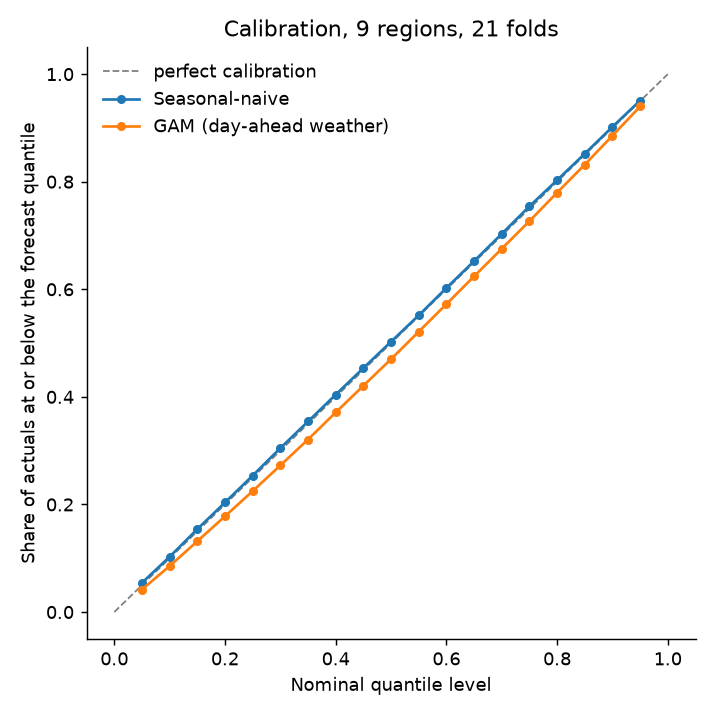
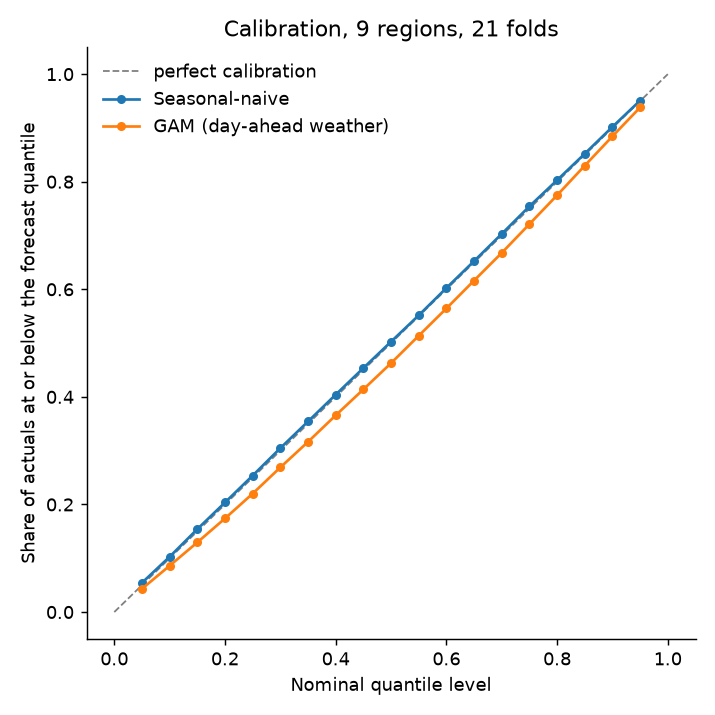
feat: add heat-wave terms to the GAM and write the README
Two terms aimed at the GAM's weakest regime, on by default (heat=True):
a temperature x hour-of-day tensor surface, since cooling load lands in
the afternoon and evening, and a trailing 24h mean temperature for heat
build-up. Across 9 regions x 21 folds with day-ahead weather: CRPS
1,256.7 -> 1,129.5 (now 56.1% better than seasonal-naive), MAPE 4.66%
-> 4.09%, heat-wave MAPE 5.47% -> 3.99%, coverage 79.8%. Better in
every region; DM vs naive pooled 16.3. Holiday coverage fell to 63%.

README.md: headline, per-region results with DM statistics, regime
table, the four figures, methodology (pipeline, leak-free lags, walk-
forward backtest, normalized conformal intervals), the measured weather
leakage, limitations, and reproduction steps. Figures regenerated.

diff --git a/models/gam.py b/models/gam.py
@@ -27,13 +27,15 @@ held-out model was a year stale; together they cover 80.0% with the best CRPS of
 
 import numpy as np
 import pandas as pd
-from pygam import LinearGAM, f, l, s
+from pygam import LinearGAM, f, l, s, te
 
 from models import Fold, usable
 from models.intervals import quantiles_from, rolling_sigma, z_quantiles
 from models.scoring import TAUS
 
 FEATURES = ["temp_c", "hour_of_week", "day_of_year", "is_major_holiday", "lag_168h", "lag_48h"]
+# heat=True adds a temperature x hour-of-day surface and a trailing 24h mean temperature.
+HEAT_FEATURES = [*FEATURES, "hour_local", "temp_mean_24h"]
 CALIBRATION_DAYS = 365  # a full year, so the z shape sees every season
 
 
@@ -43,12 +45,14 @@ def design(df: pd.DataFrame) -> pd.DataFrame:
     out["hour_of_week"] = out.dow * 24 + out.hour_local
     out["day_of_year"] = pd.to_datetime(out.local_date).dt.dayofyear
     out["is_major_holiday"] = out.is_major_holiday.astype(int)
+    out = out.sort_values("period_utc")
+    out["temp_mean_24h"] = out.temp_c.rolling(24, min_periods=1).mean()  # heat build-up
     return out
 
 
-def specification() -> LinearGAM:
-    """The model spec, unfitted. Term order matches FEATURES."""
-    return LinearGAM(
+def specification(heat: bool = False) -> LinearGAM:
+    """The model spec, unfitted. Term order matches FEATURES (or HEAT_FEATURES)."""
+    terms = (
         s(0, n_splines=15)  # temp_c
         + s(1, n_splines=60, basis="cp", edge_knots=[0, 168])  # hour_of_week, wraps 167 -> 0
         + s(2, n_splines=12, basis="cp", edge_knots=[1, 367])  # day_of_year, wraps Dec -> Jan
@@ -56,17 +60,23 @@ def specification() -> LinearGAM:
         + l(4)  # lag_168h
         + l(5)  # lag_48h
     )
+    if heat:
+        # Cooling load lands in the afternoon and evening: let temperature's effect vary by
+        # hour of day. And a hot day after hot days draws more than its own temperature says.
+        terms = terms + te(0, 6, n_splines=[8, 8]) + s(7, n_splines=10)
+    return LinearGAM(terms)
 
 
 def fit(
-    df: pd.DataFrame, fold: Fold, calibration_days: int = CALIBRATION_DAYS
+    df: pd.DataFrame, fold: Fold, calibration_days: int = CALIBRATION_DAYS, heat: bool = False
 ) -> tuple[LinearGAM, pd.DataFrame]:
     """Fit on everything up to `calibration_days` before train_end. Returns the model and the
     usable rows (designed and filtered), so callers can plot terms or build intervals."""
-    rows = usable(design(df), FEATURES)  # design first: three of FEATURES are derived
+    features = HEAT_FEATURES if heat else FEATURES
+    rows = usable(design(df), features)  # design first: several features are derived
     calib_start = fold.train_end - pd.Timedelta(days=calibration_days)
     window = rows[(rows.period_utc >= fold.train_start) & (rows.period_utc < calib_start)]
-    gam = specification().fit(window[FEATURES].to_numpy(), window.demand_mw.to_numpy())
+    gam = specification(heat).fit(window[features].to_numpy(), window.demand_mw.to_numpy())
     return gam, rows
 
 
@@ -78,6 +88,7 @@ def fit_predict(
     calibration_days: int = CALIBRATION_DAYS,
     z_by_hour: bool = True,
     refit: bool = True,
+    heat: bool = True,
 ) -> pd.DataFrame:
     """weather names the temperature column used at PREDICTION time. Training always uses
     temp_c (actual weather), as production would.
@@ -95,8 +106,12 @@ def fit_predict(
         z_by_hour         learn z per local hour (24 tables) or pooled across hours
         refit             after calibrating, refit on the full training window and use that
                           fresher model for the test-month point forecast and residuals
+        heat              temperature x hour-of-day surface plus trailing 24h mean temperature.
+                          On by default: CRPS 1,256.7 -> 1,129.5 and heat-wave MAPE 5.47% ->
+                          3.99% across 9 regions x 21 folds (CLAUDE.md section 7)
     """
-    gam, rows = fit(df, fold, calibration_days)
+    features = HEAT_FEATURES if heat else FEATURES
+    gam, rows = fit(df, fold, calibration_days, heat)
     calib_start = fold.train_end - pd.Timedelta(days=calibration_days)
 
     # Predict calibration and test as one continuous series so sigma -- which needs the
@@ -107,7 +122,8 @@ def fit_predict(
     if weather != "temp_c":
         series["temp_c"] = series[weather]
         series = series.dropna(subset=["temp_c"])
-    series["yhat"] = gam.predict(series[FEATURES].to_numpy())
+        series["temp_mean_24h"] = series.temp_c.rolling(24, min_periods=1).mean()
+    series["yhat"] = gam.predict(series[features].to_numpy())
     series["error"] = series.demand_mw - series.yhat
     series["sigma"] = rolling_sigma(series.period_utc, series.error.abs())
     series = series[series.sigma > 0]
@@ -122,8 +138,8 @@ def fit_predict(
         # Point forecast from a model trained right up to train_end. Its residuals feed sigma
         # for the test month; the z shape still comes from the held-out calibration above.
         full = rows[(rows.period_utc >= fold.train_start) & (rows.period_utc < fold.train_end)]
-        gam = specification().fit(full[FEATURES].to_numpy(), full.demand_mw.to_numpy())
-        series["yhat"] = gam.predict(series[FEATURES].to_numpy())
+        gam = specification(heat).fit(full[features].to_numpy(), full.demand_mw.to_numpy())
+        series["yhat"] = gam.predict(series[features].to_numpy())
         series["error"] = series.demand_mw - series.yhat
         series["sigma"] = rolling_sigma(series.period_utc, series.error.abs())
         series = series[series.sigma > 0]

diff --git a/scripts/backtest_local.py b/scripts/backtest_local.py
@@ -40,6 +40,7 @@ MODELS = {
     "gam": gam.fit_predict,  # predicts with actual weather: optimistic
     "gam_hf": partial(gam.fit_predict, weather="temp_c_hf"),  # historical_forecast: ~actual
     "gam_fcst": partial(gam.fit_predict, weather="temp_c_pd1"),  # forecast a day earlier: honest
+    "gam_noheat": partial(gam.fit_predict, weather="temp_c_pd1", heat=False),  # ablation
 }
 FORECAST_COLUMNS = {"historical_forecast": "temp_c_hf", "previous_day1": "temp_c_pd1"}
 

diff --git a/README.md b/README.md
@@ -1,0 +1,205 @@
+# Probabilistic Day-Ahead Electricity Demand Forecasting
+
+Hourly, day-ahead demand forecasts with **calibrated 80% prediction intervals** for 10 US
+balancing authorities, built on a Databricks (PySpark + Delta Lake) medallion pipeline and
+evaluated with a leak-free 21-month walk-forward backtest.
+
+**Headline:** a generalized additive model (GAM) using the weather forecast available the
+day before cuts probabilistic error (CRPS) by **56% versus seasonal-naive**, more than halves MAPE
+(**4.09% vs 8.55%**), keeps empirical 80% interval coverage at **79.8%**, and the
+improvement is statistically significant in every region (Diebold-Mariano, Newey-West).
+
+![Learned temperature response](docs/figures/temperature_response.png)
+
+---
+
+## Results
+
+21 monthly walk-forward folds (test months Jan 2025 – Sep 2026), 153,112 scored hours.
+Forecasts are made with **day-ahead forecast weather**, not observed weather (see
+[Weather leakage](#weather-leakage-measured)).
+
+| Region | CRPS naive (MW) | CRPS GAM (MW) | CRPS improvement | MAPE naive | MAPE GAM | 80% coverage naive | 80% coverage GAM | DM stat |
+| --- | ---: | ---: | ---: | ---: | ---: | ---: | ---: | ---: |
+| BPAT | 327 | 139 | 57% | 5.80% | 2.56% | 79.4% | 79.7% | 12.5 |
+| CISO | 1,367 | 777 | 43% | 6.51% | 3.79% | 80.4% | 79.1% | 9.0 |
+| ERCO | 3,543 | 1,414 | 60% | 8.19% | 3.21% | 80.7% | 79.7% | 11.0 |
+| FPL | 1,251 | 633 | 49% | 9.96% | 5.14% | 79.6% | 80.5% | 12.0 |
+| ISNE | 1,209 | 577 | 52% | 11.77% | 6.06% | 80.2% | 80.1% | 10.5 |
+| MISO | 4,669 | 1,737 | 63% | 7.56% | 2.88% | 79.5% | 79.6% | 12.7 |
+| NYIS | 1,314 | 577 | 56% | 9.44% | 4.47% | 81.1% | 79.8% | 10.2 |
+| PJM | 7,020 | 3,008 | 57% | 8.90% | 3.87% | 80.1% | 79.6% | 11.5 |
+| SWPP | 2,433 | 1,302 | 46% | 8.85% | 4.81% | 79.2% | 80.4% | 9.8 |
+| **All 9 above** | **2,570** | **1,130** | **56%** | **8.55%** | **4.09%** | **79.9%** | **79.8%** | **16.3** |
+| LDWP ⚠ | 293 | 192 | 34% | 30.59% | 23.13% | 81.3% | 79.3% | 6.7 |
+
+- **CRPS** (continuous ranked probability score) is the primary metric: it scores the whole
+  predictive distribution, rewarding accuracy and sharpness together, and is a proper
+  scoring rule. It is in MW, so compare models within a region, not regions with each other.
+- **DM stat:** Diebold-Mariano test on hourly CRPS differences with a one-week Newey-West
+  variance (hourly errors are strongly autocorrelated). |DM| > 1.96 is significant at 5%;
+  every region is far beyond it (pooled p ≈ 10⁻⁵⁹).
+- **LDWP** is reported separately: its published demand has long stretches pinned near
+  175–250 MW against a ~2,500 MW median. That is a data-quality problem, not a hard region.
+
+### Error by regime
+
+![Error by regime](docs/figures/error_by_regime.png)
+
+| Regime (9 regions) | Hours | MAPE naive | MAPE GAM | CRPS improvement | 80% coverage GAM |
+| --- | ---: | ---: | ---: | ---: | ---: |
+| Heat wave day (region's hottest 5%) | 8,424 | 10.9% | 4.0% | 65% | 74.8% |
+| Cold snap day (region's coldest 5%) | 9,354 | 10.5% | 5.0% | 54% | 72.3% |
+| Major holiday | 2,232 | 10.2% | 5.4% | 53% | 63.3% |
+| Weekend | 34,575 | 8.3% | 4.2% | 54% | 81.3% |
+| Weekday | 83,215 | 8.2% | 3.9% | 56% | 81.1% |
+
+The GAM more than halves error in every regime and gains most in heat waves (65%), exactly
+where repeating last week fails. Cold snaps and holidays remain ~25–35% harder than ordinary
+days, and **intervals are too narrow on extreme days and holidays** (63–75% coverage),
+offset by slight over-coverage on normal days.
+
+### A heat-wave week
+
+![CISO heat-wave week](docs/figures/forecast_week.png)
+
+Seasonal-naive repeats a mild week straight through California's September 2026 heat wave.
+The GAM sees the heat coming and climbs with it, but still **under-forecasts the peaks**,
+and actual demand breaks above the 80% interval on the hottest days.
+
+### Calibration
+
+<img src="docs/figures/calibration.png" width="420" alt="Calibration curve">
+
+Share of actuals at or below each of the 19 forecast quantiles. Seasonal-naive sits on the
+diagonal; the GAM runs a few points below it at every level, a slight systematic
+under-forecast (median bias ≈ +150 MW) that the heat-wave week also shows.
+
+---
+
+## Methodology
+
+**Data.** Hourly demand from the EIA API v2 and hourly weather from Open-Meteo for 10
+balancing authorities (CISO, ERCO, PJM, MISO, NYIS, ISNE, BPAT, SWPP, FPL, LDWP), January 2023
+to present, ~331k region-hours. Everything is stored in UTC; local time is derived only for
+calendar features.
+
+**Pipeline (Databricks Free Edition, serverless Spark Connect, Delta Lake).**
+
+```
+EIA + Open-Meteo ──► bronze (raw, MERGE upserts keyed on region + hour: idempotent, revisions picked up)
+                 ──► silver (complete UTC hourly grid, gaps flagged not filled, range checks)
+                 ──► gold.features (local calendar, holidays, leak-free lags, Fourier terms,
+                                    heating/cooling degree-hours) ──► backtest tables
+```
+
+Real data issues the pipeline surfaced and handles explicitly: EIA hours published with no
+value and hours missing entirely (both flagged `has_gap`, never forward-filled); whole local
+days missing for some utilities, several on DST transitions (e.g. PJM on 2024-03-10, blank at
+the source); CISO and LDWP sharing a weather coordinate.
+
+**Models.**
+
+- *Seasonal-naive* (benchmark only): demand at the same hour one week earlier.
+- *GAM* (pygam, one per region and fold): smooth terms for temperature, a cyclic 168-hour
+  hour-of-week curve (weekday and weekend daily shapes differ), a cyclic seasonal curve, a
+  major-holiday effect, 48h/168h demand lags, a **temperature × hour-of-day** surface
+  (cooling load lands in the afternoon and evening), and a **trailing 24h mean temperature**
+  (heat build-up). The last two cut CRPS 10% overall and heat-wave MAPE from 5.5% to 4.0%.
+
+**Leak-free features.** The forecast is issued at 13:00 UTC (06:00 Pacific) for the next UTC
+day, so target hours are 11–34h ahead. A 24h lag would point at hours that haven't happened
+yet for most targets, so lags are 48h and 168h and every rolling window ends ≥48h back.
+
+**Walk-forward backtest.** 21 monthly folds, expanding window, refit each month, 48h embargo
+before each test month. Every model is scored on identical folds and emits 19 quantiles per
+hour; CRPS is 2 × mean pinball loss across them.
+
+**Calibrated intervals (normalized conformal prediction).**
+`q_τ(t) = point forecast + σ(t) · z_τ(hour)`, where σ(t) is the mean absolute error over the
+7 days ending 48h before t (known at issue time) and z_τ are quantiles of standardized
+errors. For the GAM, z is learned on a held-out year and the model is then refit for the
+forecast. Measured alternatives and why they lost: hour-stratified offsets (8.9-point mean
+monthly coverage miss vs 2.4), month stratification (fails across years with the same
+label), a 90-day calibration window (76% coverage, learned one season's error shape).
+
+### Weather leakage, measured
+
+Backtests that use *observed* weather are optimistic: at forecast time only a forecast
+exists. Same GAM, three weather inputs at prediction time (9 regions):
+
+| Prediction-time weather | CRPS | vs naive |
+| --- | ---: | ---: |
+| Observed (ERA5 reanalysis) | 1,225 | −52.3% |
+| Open-Meteo "historical forecast" | 1,224 | −52.4% |
+| **Forecast issued a day earlier** (Previous Runs API) | **1,275** | **−50.4%** |
+
+Open-Meteo's historical-forecast product scores exactly like observed weather (it is
+stitched from the start of each model run), so it cannot measure leakage. The day-earlier
+forecast (MAE 1.5 °C against observations) is the honest input: weather-forecast error costs
+about 4% CRPS. Its lead time (~24–47h) is slightly longer than this system's 11–34h, so if
+anything it overstates that cost. *(Numbers in this table predate the final interval
+calibration; the main table uses it.)*
+
+---
+
+## Limitations
+
+- **Extreme peaks and holidays.** The GAM still under-forecasts the most extreme peaks
+  (CISO, 10 Sep 2026: ~41 GW forecast vs 50 GW actual), and intervals cover 63–75% on
+  extreme-weather days and holidays. The 7-day volatility scale lags the onset of extremes.
+- **One weather point per region.** MISO spans Minnesota to Louisiana; one Indianapolis
+  temperature is a crude proxy. FPL cold snaps (rare in training) and holidays are the worst
+  cells.
+- **CISO improves least (43%).** Its error peaks at 5 PM, when behind-the-meter solar
+  collapses and depends on cloud cover, which no current feature captures.
+- **June coverage** (74–76%) is the weakest month: early-summer heat outruns the volatility scale.
+- **LDWP data quality** limits any model there; excluded from headline averages.
+- **Weather-forecast lead time** is approximated (day-earlier forecast, ~24–47h).
+- **Not yet built:** the hierarchical Bayesian model for the CAISO sub-areas with MinT
+  reconciliation, the live API, and drift monitoring (in progress).
+- **Fleet job on Databricks:** `databricks/04_train_fleet.py` fits all region-folds with
+  `applyInPandas`, but Python UDFs fail to start from Databricks Connect on this Free Edition
+  workspace (`ISOLATION_STARTUP_FAILURE`). The reported results come from the local harness,
+  which runs the identical `models/` code.
+
+## Next steps
+
+Ranked by expected impact on the weakest results:
+
+1. Intervals conditioned on forecast temperature extremity and holidays, not only recent
+   volatility (fixes the 63–75% regime coverage).
+2. Solar radiation / cloud cover (CISO's 5 PM error), and multi-point population-weighted
+   weather for large regions.
+3. Days-around-holiday effects (Christmas Eve, the days between Christmas and New Year).
+
+---
+
+## Repository
+
+```
+ingest/      EIA and Open-Meteo clients, UTC/DST handling, holiday calendars (pure Python, tested)
+databricks/  01-03 bronze/silver/gold pipeline, 04 GAM fleet job, 06 Spark backtest, eda_*
+models/      model code shared by local and Spark runs: scoring, intervals, naive, GAM
+scripts/     export_gold (snapshot to Parquet), backtest_local, dm_test, regime_analysis,
+             make_figures, eda_gam_coverage
+tests/       pytest suite (DST transitions, gaps, clients, calendars)
+docs/figures README plots
+```
+
+### Reproduce
+
+```bash
+python -m venv .venv && .\.venv\Scripts\Activate.ps1      # Python 3.12
+pip install -e ".[pipeline,modeling,dev]"
+# set EIA_API_KEY in .env; Databricks auth via ~/.databrickscfg
+python databricks/01_bronze_ingest.py
+python databricks/01_bronze_weather.py
+python databricks/02_silver_clean.py
+python databricks/02_silver_weather.py
+python databricks/03_gold_features.py
+python databricks/06_backtest.py          # seasonal-naive on Spark, defines the folds
+python scripts/export_gold.py             # snapshot to data/ for local modeling
+python scripts/backtest_local.py --models seasonal_naive gam_fcst
+python scripts/dm_test.py && python scripts/regime_analysis.py && python scripts/make_figures.py
+```

diff --git a/CLAUDE.md b/CLAUDE.md
@@ -248,6 +248,17 @@ and also gives the best CRPS (fresher model, MAPE 4.66%). June folds remain the 
 **Headline with the new default:** GAM with day-ahead forecast weather, CRPS 1,256.7 vs
 2,570.3 for seasonal-naive (**51.1% better**), MAPE 4.66% vs 8.55%, coverage 80.0%.
 
+**GAM heat terms (decided 2026-10-18), now the default.** Adding a temperature × hour-of-day
+tensor term and a trailing 24h mean temperature (`heat=True` in `models/gam.py`):
+
+| Excl. LDWP, honest weather | CRPS | vs naive | MAPE | Coverage | Heat-wave MAPE | Heat-wave coverage |
+| --- | --- | --- | --- | --- | --- | --- |
+| GAM without heat terms | 1,256.7 | −51.1% | 4.66% | 80.0% | 5.47% | 69.5% |
+| **GAM with heat terms** | **1,129.5** | **−56.1%** | **4.09%** | 79.8% | **3.99%** | 74.8% |
+
+Better in every region; ISNE heat-wave MAPE 10.6% → 5.7%. DM vs naive pooled 16.3. Holiday
+coverage fell to 63.3% (holiday MAPE improved, 5.7% → 5.4%). The README reports these numbers.
+
 ### 7a. Measured findings on the seasonal-naive benchmark (2026-10-12)
 
 From `databricks/eda_naive_error.py`, `eda_naive_extremes.py` and `eda_naive_dst.py`, CISO
